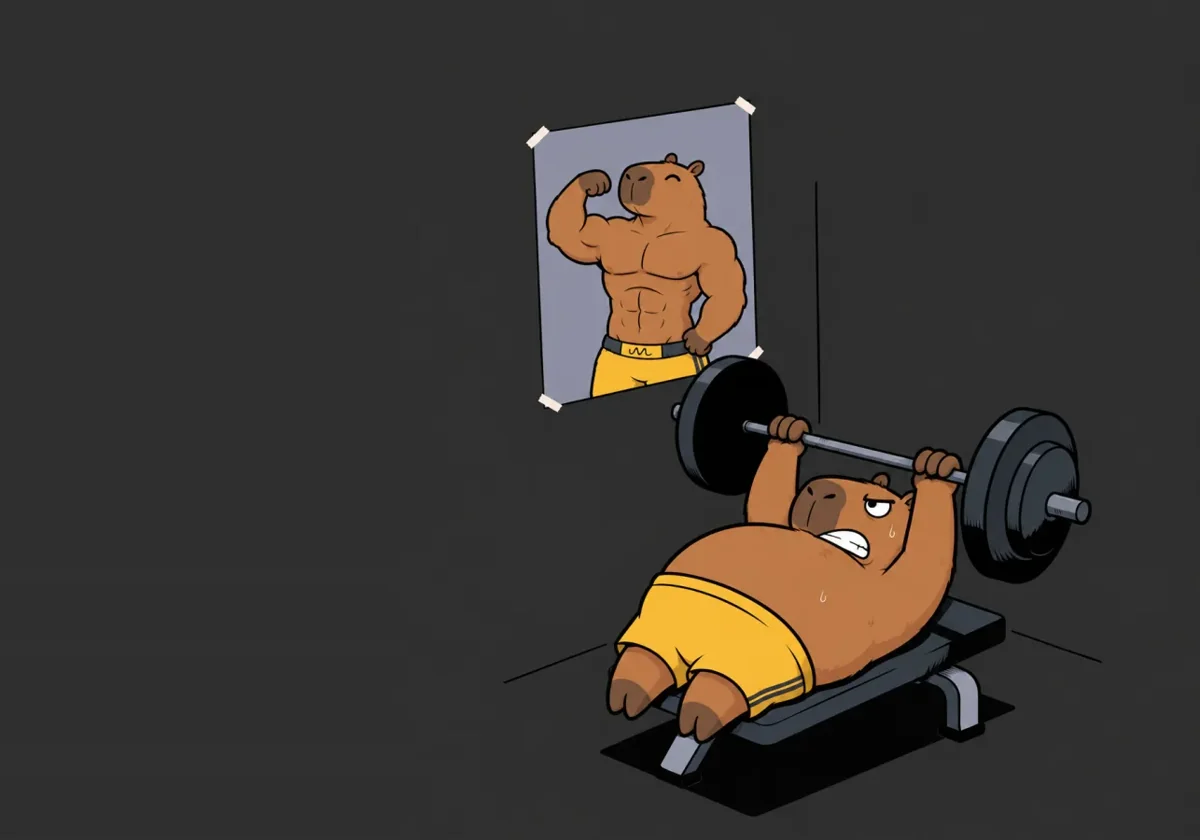
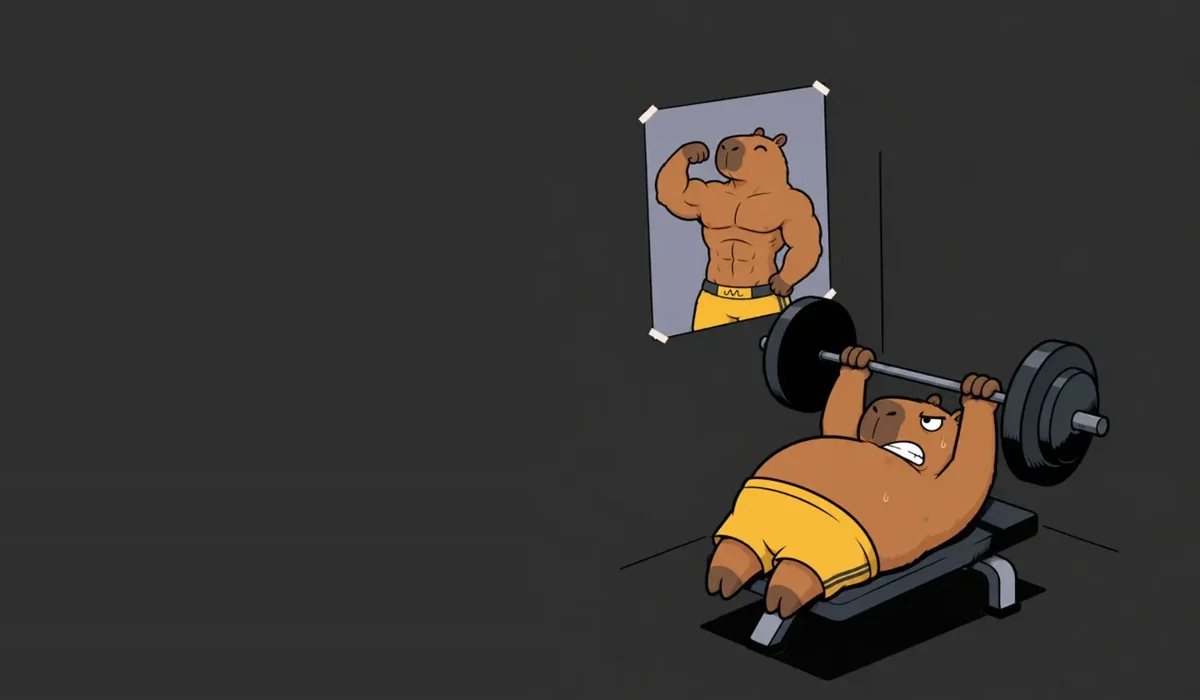
Weekly Challenges: the rows clear of the picture (31b, Kd)
Kd: the steps covered the picture. The box is 360 wide, its picture widened to the
left with its own background, and each challenge sits in the left half: its name,
then the steps and the count. Safe mode still says why a challenge is paused.

Changed region(s): [[0.4317, 0.12, 0.925, 0.99]]

diff --git a/apps/mobile/src/screens/Dashboard.tsx b/apps/mobile/src/screens/Dashboard.tsx
@@ -377,17 +377,26 @@ function Challenges({ read }: { read: Read<WeeklyChallenges> }) {
         {read.kind !== "ok" ? (
           <Txt kind="small">{NOT_KNOWN}</Txt>
         ) : (
+          // In the box's left half: the picture's own figures stand in the right half, never under a row.
           read.data.challenges.map((c) => (
-            <View key={c.code} style={styles.tight}>
-              <View style={styles.between}>
-                <Txt kind="tiny" colour="textSoft" style={styles.grow} numberOfLines={1}>
-                  {challengeWords(c)}
+            <View key={c.code} style={[styles.tight, styles.challengeRow]}>
+              <Txt kind="tiny" colour="textSoft" numberOfLines={1}>
+                {challengeWords(c)}
+              </Txt>
+              {c.held !== null && !c.done ? (
+                <Txt kind="tiny" colour="orange" style={styles.semibold}>
+                  Paused in Safe mode
                 </Txt>
-                <Txt kind="tiny" colour={c.done ? "goodText" : "orange"} style={styles.semibold}>
-                  {c.done ? "Done" : c.held === null ? challengeProgress(c) : "Paused in Safe mode"}
-                </Txt>
-              </View>
-              <Steps share={c.done ? 1 : Math.min(c.current, c.target) / c.target} />
+              ) : (
+                <View style={styles.between}>
+                  <View style={styles.grow}>
+                    <Steps share={c.done ? 1 : Math.min(c.current, c.target) / c.target} />
+                  </View>
+                  <Txt kind="tiny" colour={c.done ? "goodText" : "orange"} style={styles.semibold}>
+                    {c.done ? "Done" : challengeProgress(c)}
+                  </Txt>
+                </View>
+              )}
             </View>
           ))
         )}
@@ -544,7 +553,8 @@ const styles = StyleSheet.create({
   // The pictures were widened to these boxes' shapes, so each covers its box without cutting its subject.
   quote: { width: 220, height: 200 },
   quoteWords: { padding: 14, paddingRight: 96, gap: 8 },
-  challenges: { width: 300, height: 210 },
+  challenges: { width: 360, height: 210 },
+  challengeRow: { width: "52%" },
   rank: { width: 140, height: 210, justifyContent: "flex-end" },
   badges: { width: 230, height: 210 },
   recent: { gap: 4 },
